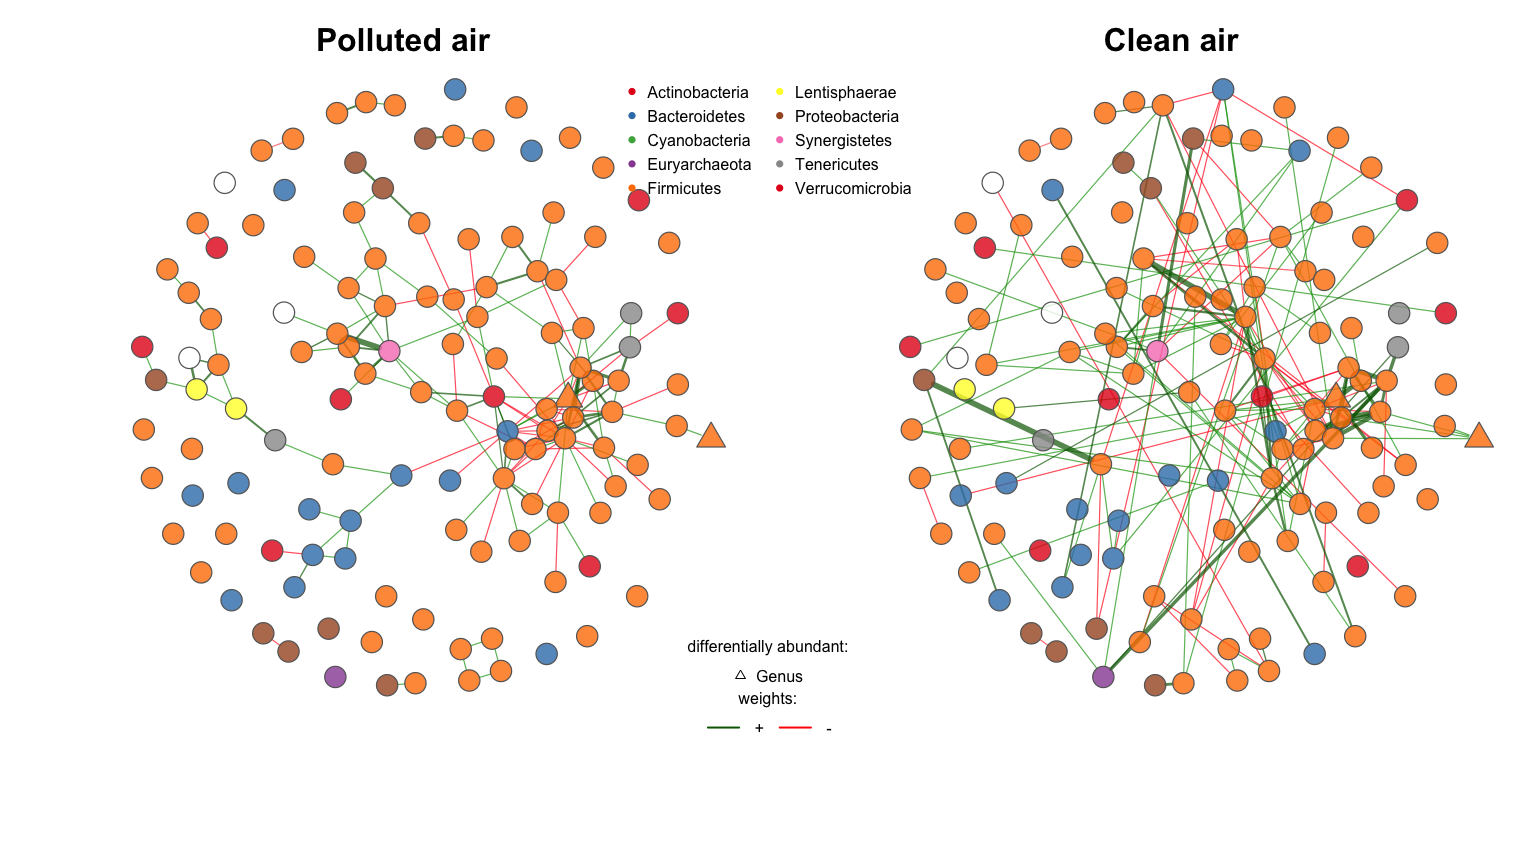
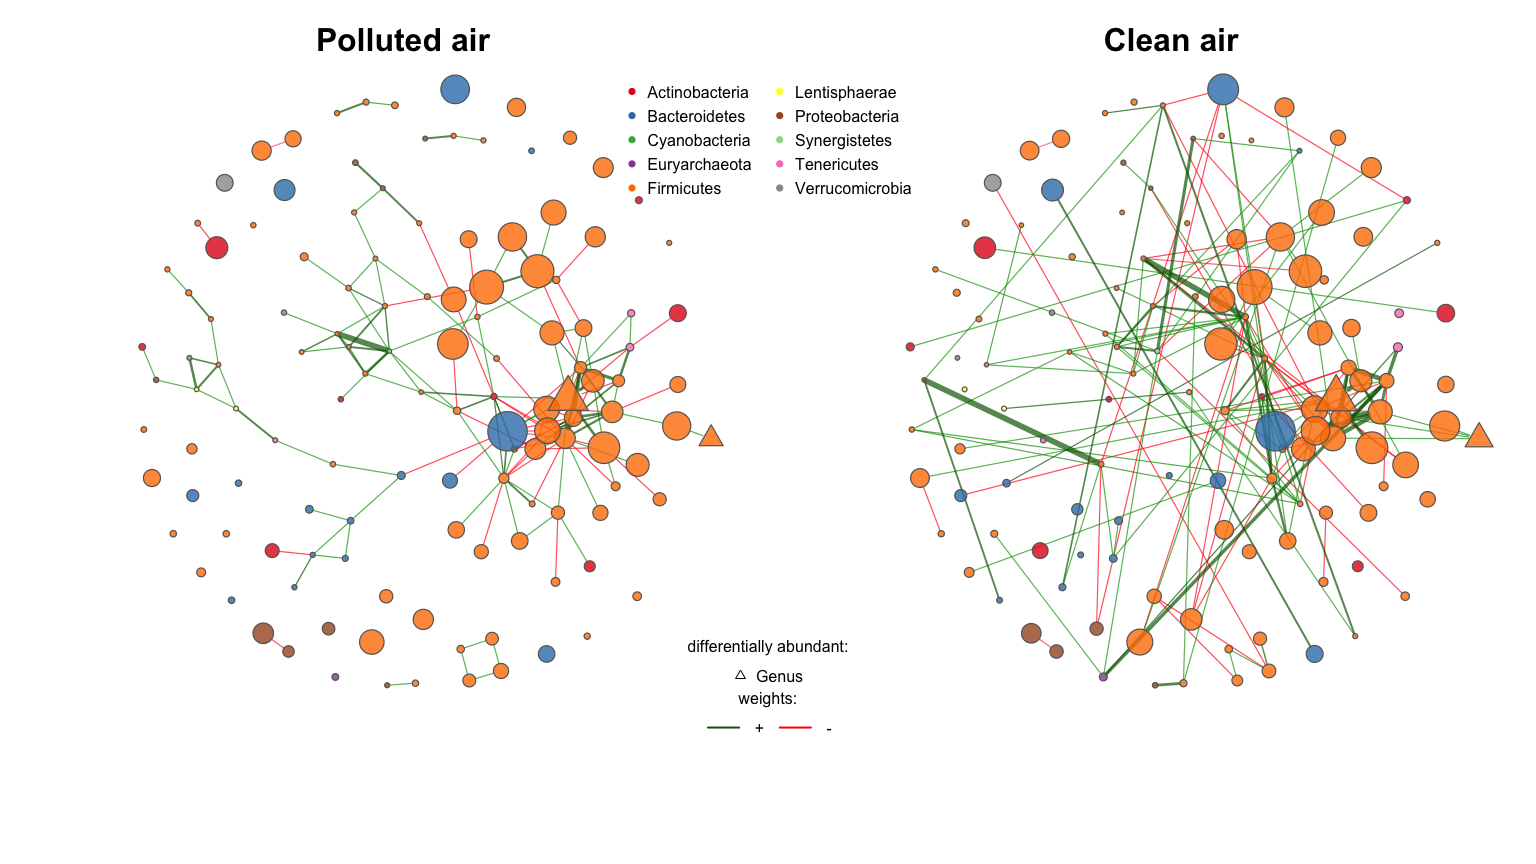
scaled nodes and new colors

diff --git a/5_networks/5.2.1_Networks_viz_Gen.md b/5_networks/5.2.1_Networks_viz_Gen.md
@@ -12,22 +12,23 @@ The following code was run on a cluster.
 
 ``` r
 # # load phyloseq data
-# load('/n/home05/ajsommer/NetCoMi_cluster/ps_to_net_Gen_smoke.RData')
-
+# load('/Users/alicesommer/Desktop/Bureau/DOCTORATE/data_pipeline_microbiome/ps_to_net_Gen.RData')
+# 
 # gut_split <- metagMisc::phyloseq_sep_variable(ps_Genus_prune, "W")
-
+# 
 # net_W <- netConstruct(gut_split$`0`, gut_split$`1`, verbose = 2,
-# filtTax = "highestVar",
-# filtTaxPar = list(highestVar = 50),
+#         # filtTax = "highestVar",
+#         # filtTaxPar = list(highestVar = 50),
 #                            measure = "spieceasi",
 #                           measurePar = list(method = "glasso",
 #                                             nlambda=20,
 #                                             pulsar.params=list(rep.num=50)),
 #                           normMethod = "none", zeroMethod = "none",
 #                           sparsMethod = "none", seed = 123456, matchDesign = c(1,1))
-
-
-# props_W <- netAnalyze(net_W, clustMethod = "cluster_fast_greedy")
+# 
+# 
+# props_W <- netAnalyze(net_W, clustMethod = "cluster_fast_greedy", connectivity = FALSE)
+# save(props_W, file = "/Users/alicesommer/Desktop/Bureau/DOCTORATE/data_pipeline_microbiome/props_W_Gen.RData")
 ```
 
     ## Taxonomy Table:     [3 taxa by 7 taxonomic ranks]:
@@ -45,8 +46,7 @@ We plot the results of the netAnalyze function.
 ``` r
 phyl_ps_prune <- as.factor(tax_table(ps_Genus_prune)[, 'Phylum'])
 names(phyl_ps_prune) <- rownames(tax_table(ps_Genus_prune)[, 'Phylum'])
-# phylcol <- rainbow(length(unique(phyl_ps_prune)))
-phylcol <- brewer.pal(9, "Set1")
+phylcol <- c(brewer.pal(9, "Set1")[1:7], brewer.pal(9, "Greens")[4], brewer.pal(9, "Set1")[8:9])
 
 phylcol_names <- phylcol[phyl_ps_prune]
 names(phylcol_names) <- rownames(tax_table(ps_Genus_prune)[, 'Phylum'])
@@ -67,8 +67,8 @@ plot_props <- plot(props_W,
      colorVec = phylcol_names,
      nodeTransp = 20,
      borderCol = "gray40", highlightHubs = FALSE, 
-     # nodeSize = "clr", cexNodes = .5, 
-     cexNodes = 1, 
+     nodeSize = "clr", cexNodes = .5, 
+     # cexNodes = 1, 
      # nodeSizeSpread = 3,
      cexTitle = 2,
      edgeTranspLow = 30, 
@@ -96,48 +96,25 @@ legend("bottom",
 ```
 
 ![](5.2.1_Networks_viz_Gen_files/figure-gfm/unnamed-chunk-5-1.png)<!-- -->
-\#\# Largest connected component
-
-``` r
-props_W_igraph1 <- graph_from_adjacency_matrix(props_W$input$adjaMat1, weighted = TRUE)
-props_W_igraph2 <- graph_from_adjacency_matrix(props_W$input$adjaMat1, weighted = TRUE)
-
-largest_comp1 <- names(which(clusters(props_W_igraph1)$membership == 1))
-largest_comp2 <- names(which(clusters(props_W_igraph2)$membership == 1))
-
-labels_1 <- as.factor(tax_table(ps_Genus_prune)[, 'Genus'])
-names(labels_1) <- rownames(tax_table(ps_Genus_prune)[, 'Genus'])
-# labels_1[-c(116,5,47)] <- NA
-
-plot(props_W,
-     # rmSingles = "inboth",
-     layout = "spring", repulsion = .85, 
-     # sameLayout = TRUE, layoutGroup = 1, 
-     labels = names(labels_1[largest_comp1]), labelScale = FALSE , cexLabels = 1,
-     featVecCol = phyl_ps_prune, nodeColor = "feature", 
-     nodeTransp = 40,
-     borderCol = "gray40", highlightHubs = FALSE, 
-     # nodeSize = "clr",
-     cexNodes = .5, cexTitle = 2,
-     edgeTranspLow = 30, edgeTranspHigh = 30,
-     nodeShape = c("circle", "triangle"),
-     featVecShape = shapeVec,
-     mar = c(6,5,3,2), groupNames = c("Polluted air", "Clean air"),
-     nodeFilter = "names", nodeFilterPar = largest_comp1)
-```
-
-![](5.2.1_Networks_viz_Gen_files/figure-gfm/unnamed-chunk-6-1.png)<!-- -->
 
 ## Network properties
 
 ``` r
-# summary(props_W)
+summary(props_W)[[1]]
 ```
+
+    ##                                group '1' group '2'
+    ## Number of connected components   8.00000  10.00000
+    ## Clustering coefficient           0.36027   0.29231
+    ## Moduarity                        0.60138   0.61070
+    ## Positive-to-negative ratio       2.38776   2.29167
+    ## Edge density                     0.01506   0.01433
+    ## Natural connectivity             0.00792   0.00780
 
 ### Modularity (clusters/modules)
 
 ``` r
-# summary(props_W)[[2]]
+# summary(props_W)
 ```
 
 #### Vizualisation
@@ -180,7 +157,7 @@ legend("bottom",
        bty="n", horiz = FALSE) 
 ```
 
-![](5.2.1_Networks_viz_Gen_files/figure-gfm/unnamed-chunk-9-1.png)<!-- -->
+![](5.2.1_Networks_viz_Gen_files/figure-gfm/unnamed-chunk-8-1.png)<!-- -->
 
 #### Shared nodes among modules
 
@@ -232,7 +209,7 @@ legend(x=.1, y=-1.1, legend=legend_cats$size_text, pt.cex=legend_cats$size_circl
        title = "Module size (nb. of nodes):")
 ```
 
-![](5.2.1_Networks_viz_Gen_files/figure-gfm/unnamed-chunk-10-1.png)<!-- -->
+![](5.2.1_Networks_viz_Gen_files/figure-gfm/unnamed-chunk-9-1.png)<!-- -->
 
 #### Big modules structure
 
@@ -243,13 +220,6 @@ names_clust <- unique(names_clust)
 # labels_phyl <- substr(as.character(phyl_ps_prune[names_clust]), 1, 3)
 col_module <- unique(plot_cluster$nodecolor$nodecol1[names_clust],
                      plot_cluster$nodecolor$nodecol2[names_clust])
-# 
-# plot_zoom <- plot(props_W, 
-#      sameLayout = TRUE, layoutGroup = 2, 
-#      featVecCol = phyl_ps_prune[names_clust],
-#      nodeColor = "feature",
-#      nodeFilter = "names",
-#      nodeFilterPar = names_clust)
 
 labels_1 <- unname(tax_table(ps_Genus_prune)[,"Genus"])
 labels_1[is.na(labels_1)] <- paste0("Order_", unname(tax_table(ps_Genus_prune)[is.na(labels_1),"Order"]))
@@ -270,7 +240,7 @@ plot(props_W,
                   phylcol_names[names_clust]),
      sameClustCol = FALSE,
      borderCol = "gray40", highlightHubs = FALSE,
-     # nodeSize = "clr", cexNodes = 1.5, 
+     nodeSize = "clr", cexNodes = 1.5, 
      nodeTransp = 40,
      nodeFilter = "names",
      nodeShape = c("circle", "triangle"),
@@ -280,7 +250,7 @@ plot(props_W,
      groupNames = c("Polluted air", "Clean air"))
 ```
 
-![](5.2.1_Networks_viz_Gen_files/figure-gfm/unnamed-chunk-11-1.png)<!-- -->
+![](5.2.1_Networks_viz_Gen_files/figure-gfm/unnamed-chunk-10-1.png)<!-- -->
 
 ``` r
 tax_table(ps_Genus_prune)[c("Seq46","Seq21","Seq56","Seq517","Seq288","Seq11"),]
